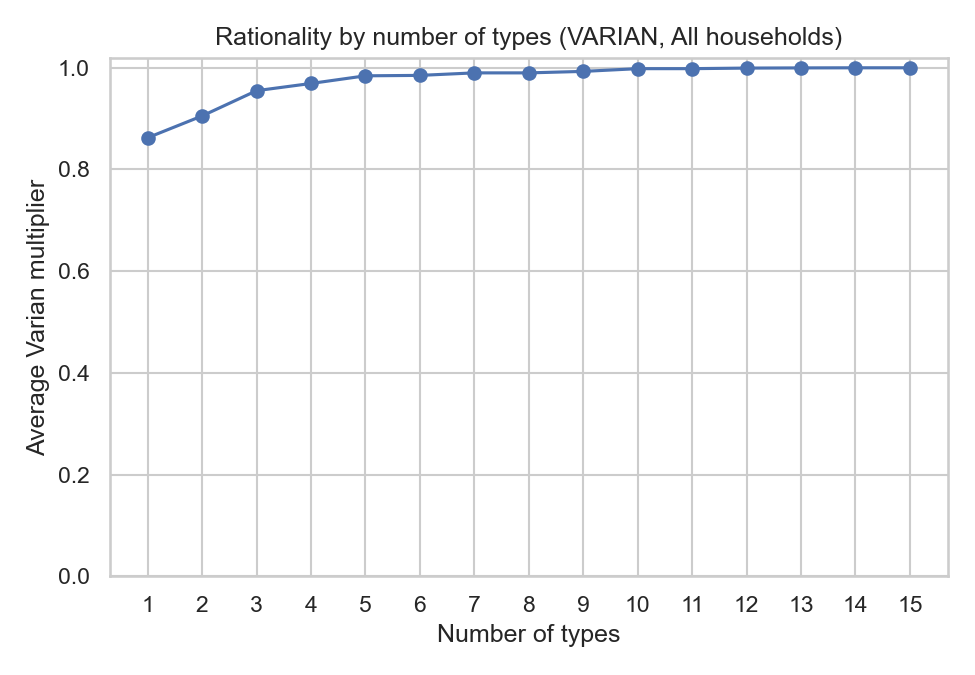
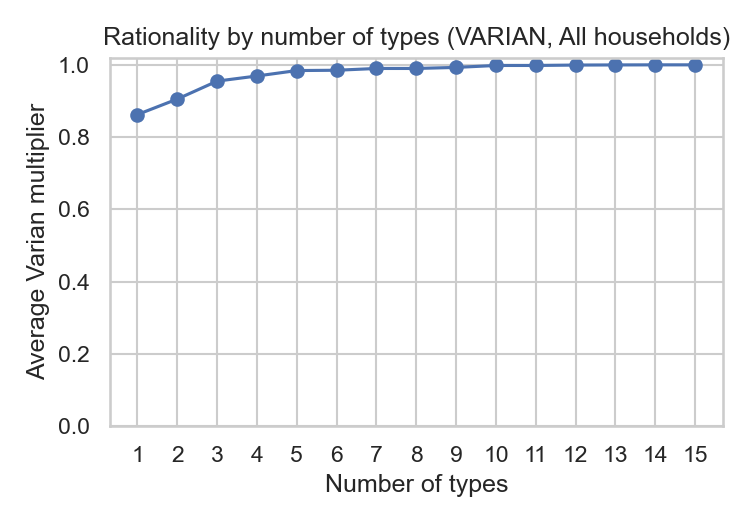
Figures at 5 x 3.5 inches with tight layout

diff --git a/code/graphs.py b/code/graphs.py
@@ -44,12 +44,13 @@ sizes = partitions.groupby(f'group_{SAMPLE}').agg(
 
 n_households = sizes['partition_size'].sum()
 
-plt.figure(figsize=(8, 6))
+plt.figure(figsize=(5, 3.5))
 sns.barplot(data=sizes, x=f'group_{SAMPLE}', y='partition_size')
 plt.title('Group Sizes, total = {}'.format(n_households))
 plt.xlabel('Group')
 plt.ylabel('Number of Households')
 plt.xticks()
+plt.tight_layout()
 plt.savefig('graphs/group_sizes.png', dpi=300)
 plt.close()
 print("Saved graphs/group_sizes.png")
@@ -67,7 +68,7 @@ for method, ylabel in Y_LABELS.items():
         continue
     schedule = pd.read_csv(path, index_col='k')
 
-    fig, ax = plt.subplots(figsize=(6.5, 4.5))
+    fig, ax = plt.subplots(figsize=(5, 3.5))
     ax.plot(schedule.index, schedule['rationality'], marker='o')
     ax.set_xlabel('Number of types')
     ax.set_ylabel(ylabel)